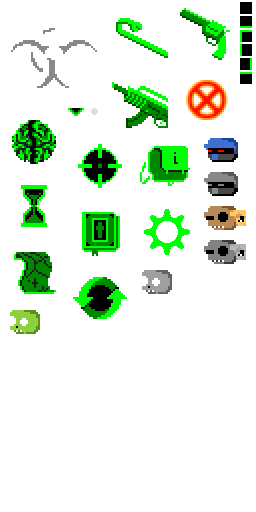
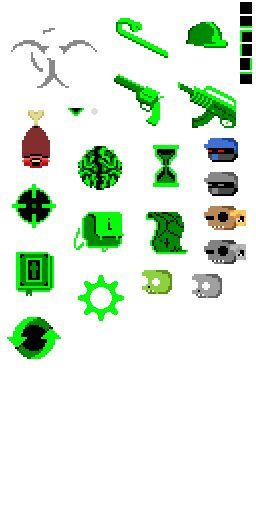
Various inventory visual placement improvements

diff --git a/client/hud/Inventory.cpp b/client/hud/Inventory.cpp
@@ -14,7 +14,7 @@
 #include "../mission/MissionClient.hpp"
 
 Inventory::Inventory(Hud* _hud)
-    : HudMenu(_hud, 0, 0, 1300, 720, bit::Element::AnchorType::Right, std::bind(&Hud::typicalContainerControl, hud, std::placeholders::_1,std::placeholders::_2, std::placeholders::_3)), refreshTimer(5)
+    : HudMenu(_hud, 0, 0, 691, 728, bit::Element::AnchorType::Right, std::bind(&Hud::typicalContainerControl, hud, std::placeholders::_1,std::placeholders::_2, std::placeholders::_3)), refreshTimer(5)
 {
     scaleStyle = ScaleStyle::PowerOfTwo;
     managesOpacity = true;
@@ -35,30 +35,24 @@ Inventory::Inventory(Hud* _hud)
 
     // PRIMARY PANELS
     // 500 x 720
-    equipmentPanel = new Frame(hud, 0, 0, 500, 720, bit::Element::AnchorType::Right, std::bind(&Hud::typicalContainerControl, hud, std::placeholders::_1,std::placeholders::_2, std::placeholders::_3));
+    equipmentPanel = new Frame(hud, 0, 0, 400, targetHeight, bit::Element::AnchorType::Right, std::bind(&Hud::typicalContainerControl, hud, std::placeholders::_1,std::placeholders::_2, std::placeholders::_3));
     equipmentPanel->scaleStyle = ScaleStyle::PowerOfTwo;
     equipmentPanel->managesOpacity = true;
     addChild(equipmentPanel);
     
     // 800 x 720
-    inventoryPanel = new Frame(hud, 0, 0, 800, 720, bit::Element::AnchorType::Left, std::bind(&Hud::typicalContainerControl, hud, std::placeholders::_1,std::placeholders::_2, std::placeholders::_3));
+    inventoryPanel = new Frame(hud, 0, 0, 296, targetHeight, bit::Element::AnchorType::Left, std::bind(&Hud::typicalContainerControl, hud, std::placeholders::_1,std::placeholders::_2, std::placeholders::_3));
     inventoryPanel->scaleStyle = ScaleStyle::PowerOfTwo;
     inventoryPanel->managesOpacity = true;
     addChild(inventoryPanel);
 
 
     // INVENTORY SLOTS
-    bit::Label* title = new bit::Label(20, 10, 0, 0, bit::Element::AnchorType::TopLeft);
-    title->setSfFontSize(24);
-    title->setSfFont(hud->journalFont);
-    title->normalColor = sf::Color(0, 255, 0);
-    title->setSfFontString(std::string("INVENTORY:"));
-    inventoryPanel->addChild(title);
-    int y = 72;
+    int y = 8;
     int width = 64;
     int pad = 8;
     int x = pad;
-    for(unsigned int j=0; j < 99; j++)
+    for(unsigned int j=0; j < 40; j++)
     {
         if(x + width + pad > inventoryPanel->targetWidth)
         {
@@ -100,11 +94,11 @@ Inventory::Inventory(Hud* _hud)
     equipmentSlotBoxes[Character::EquipmentSlot::Hands]->AcceptedCategoryArmor = ItemCategory::Armor::ArmorHand;
     equipmentPanel->addChild(equipmentSlotBoxes[Character::EquipmentSlot::Hands]);
     
-    equipmentSlotBoxes[Character::EquipmentSlot::WeaponPrimary] = new InventoryEquipmentSlot(hud, Character::EquipmentSlot::WeaponPrimary, 150, topOffset + 120, 100, 100, bit::Element::AnchorType::Top);
+    equipmentSlotBoxes[Character::EquipmentSlot::WeaponPrimary] = new InventoryEquipmentSlot(hud, Character::EquipmentSlot::WeaponPrimary, 150, topOffset + 120, 64, 64, bit::Element::AnchorType::Top);
     equipmentSlotBoxes[Character::EquipmentSlot::WeaponPrimary]->AcceptedCategoryWeapon = ItemCategory::Weapon::WeaponRanged | ItemCategory::Weapon::WeaponMelee;
     equipmentPanel->addChild(equipmentSlotBoxes[Character::EquipmentSlot::WeaponPrimary]);
     
-    equipmentSlotBoxes[Character::EquipmentSlot::WeaponSecondary] = new InventoryEquipmentSlot(hud, Character::EquipmentSlot::WeaponSecondary, 150, topOffset + 240, 100, 100, bit::Element::AnchorType::Top);
+    equipmentSlotBoxes[Character::EquipmentSlot::WeaponSecondary] = new InventoryEquipmentSlot(hud, Character::EquipmentSlot::WeaponSecondary, 150, topOffset + 240, 64, 64, bit::Element::AnchorType::Top);
     equipmentSlotBoxes[Character::EquipmentSlot::WeaponSecondary]->AcceptedCategoryWeapon = ItemCategory::Weapon::WeaponRanged | ItemCategory::Weapon::WeaponMelee;
     equipmentPanel->addChild(equipmentSlotBoxes[Character::EquipmentSlot::WeaponSecondary]);
 }

diff --git a/client/hud/LootMenu.cpp b/client/hud/LootMenu.cpp
@@ -14,7 +14,7 @@
 #include "InventoryItemLabel.hpp"
 
 LootMenu::LootMenu(Hud* _hud)
-    : HudMenu(_hud, 50, 0, 618, 720, bit::Element::AnchorType::Left, std::bind(&Hud::typicalContainerControl, hud, std::placeholders::_1,std::placeholders::_2, std::placeholders::_3)),
+    : HudMenu(_hud, 50, 0, 296, 728, bit::Element::AnchorType::Right, std::bind(&Hud::typicalContainerControl, hud, std::placeholders::_1,std::placeholders::_2, std::placeholders::_3)),
       inventory(), isActive(false), tileId(0)
 {
     scaleStyle = ScaleStyle::PowerOfTwo;
@@ -22,11 +22,11 @@ LootMenu::LootMenu(Hud* _hud)
     opacity = 0;
 
     // INVENTORY SLOTS
-    int y = 72;
+    int y = 8;
     int width = 64;
     int pad = 8;
     int x = pad;
-    for(unsigned int j=0; j < 60; j++)
+    for(unsigned int j=0; j < 40; j++)
     {
         if(x + width + pad > targetWidth)
         {
@@ -64,7 +64,7 @@ void LootMenu::hide()
     isShown = false;
     clearEffects();
     relativePosition.x = 0;
-    immediateEffect(new bit::MoveEffect(300, bit::Easing::OutQuart, -targetWidth, 0));
+    immediateEffect(new bit::MoveEffect(300, bit::Easing::OutQuart, targetWidth + 700, 0));
     immediateEffect(new bit::FadeEffect(150, 0));
 }
 
@@ -73,8 +73,8 @@ void LootMenu::show()
     canHaveFocus = true;
     isShown = true;
     clearEffects();
-    relativePosition.x = -targetWidth;
-    immediateEffect(new bit::MoveEffect(300, bit::Easing::OutQuart, targetWidth, 0));
+    relativePosition.x = targetWidth;
+    immediateEffect(new bit::MoveEffect(300, bit::Easing::OutQuart, -targetWidth - 700, 0));
     immediateEffect(new bit::FadeEffect(300, Hud::popupOpacity));
 }
 

diff --git a/client/hud/Hud.cpp b/client/hud/Hud.cpp
@@ -100,8 +100,8 @@ void Hud::update(sf::RenderWindow &window, sf::Time &gameTime)
 
     // Minimap
     float scale = bit::Math::roundPowerOf2(state->rogueZombieGame->currentResolutionRatio);
-    minimap.setPosition(175 * state->rogueZombieGame->currentResolutionRatioX, 125 * state->rogueZombieGame->currentResolutionRatioY);
-    minimap.setScale(scale, scale);
+    //minimap.setPosition(175 * state->rogueZombieGame->currentResolutionRatioX, 125 * state->rogueZombieGame->currentResolutionRatioY);
+    //minimap.setScale(scale, scale);
 }
 
 void Hud::draw(sf::RenderWindow &window, sf::Time &gameTime)
@@ -114,8 +114,8 @@ void Hud::draw(sf::RenderWindow &window, sf::Time &gameTime)
     window.draw(interfaceVertexMap.vertexArray, states);
 
     // Minimap
-    states.transform *= minimap.getTransform();
-    window.draw(minimap.vertexMap.vertexArray, states);
+    //states.transform *= minimap.getTransform();
+    //window.draw(minimap.vertexMap.vertexArray, states);
 
     state->rogueZombieGame->depthTestEnd();
 

diff --git a/client/hud/OptionsBar.cpp b/client/hud/OptionsBar.cpp
@@ -8,7 +8,7 @@
 #include "../RogueZombieGame.hpp"
 
 OptionsBar::OptionsBar(Hud* _hud)
-    : bit::Container(50, 30, 320, 64, bit::Element::AnchorType::TopLeft, std::bind(&Hud::typicalContainerControl, hud, std::placeholders::_1,std::placeholders::_2, std::placeholders::_3)), hud(_hud)
+    : bit::Container(50, 50, 320, 64, bit::Element::AnchorType::TopLeft, std::bind(&Hud::typicalContainerControl, hud, std::placeholders::_1,std::placeholders::_2, std::placeholders::_3)), hud(_hud)
 {
     scaleStyle = ScaleStyle::PowerOfTwo;
     managesOpacity = true;

diff --git a/server/items/Item.cpp b/server/items/Item.cpp
@@ -375,7 +375,7 @@ std::string Item::getSpriteName(Type type)
         case Type::Z4Rifle:
             return "Z4Rifle";
 
-        case Type::Crowbar:
+        case Type::Crowbar: 
             return "Crowbar";
     }
 }
@@ -387,6 +387,9 @@ std::string Item::getIconName(Type type)
         default:
         case Type::None:
             return "unknown";
+
+        case Type::HardHat:
+            return "HardHat";
 
         case Type::Magnum357:
             return "Magnum357";

diff --git a/client/LevelClient.cpp b/client/LevelClient.cpp
@@ -282,7 +282,7 @@ void LevelClient::handleSnapshot(bit::ServerPacket &packet, bool full)
 
         if(addMini)
         {
-            state->hud->minimap.addPoint(t->schema.id, t->schema.x, t->schema.y);
+            //state->hud->minimap.addPoint(t->schema.id, t->schema.x, t->schema.y);
         }
     }
 

diff --git a/client/hud/Console.cpp b/client/hud/Console.cpp
@@ -15,6 +15,7 @@ void Console::print(std::string &message)
     line->setSfFont(hud->journalFont);
     line->normalColor = sf::Color(0, 255, 0);
     line->setSfFontString(message);
+    line->paddingBottom = 10;
     
     // Add the child
     addChild(line);
